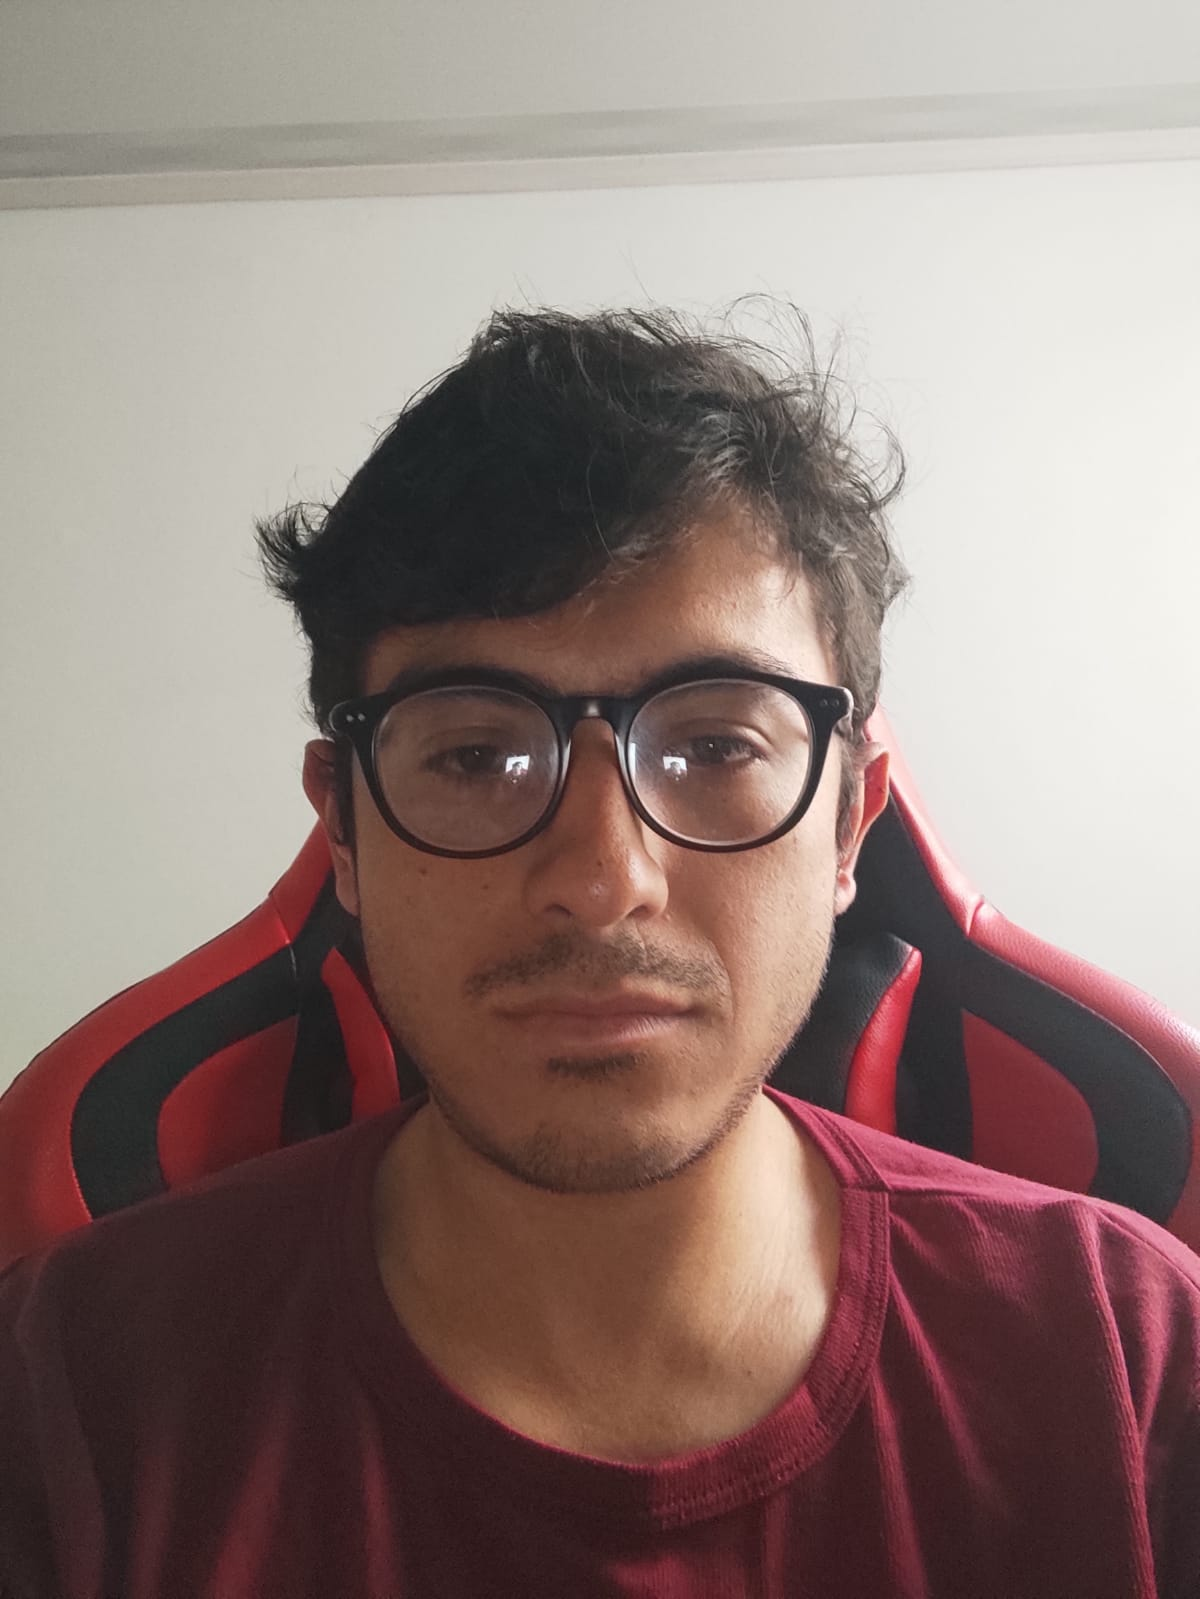
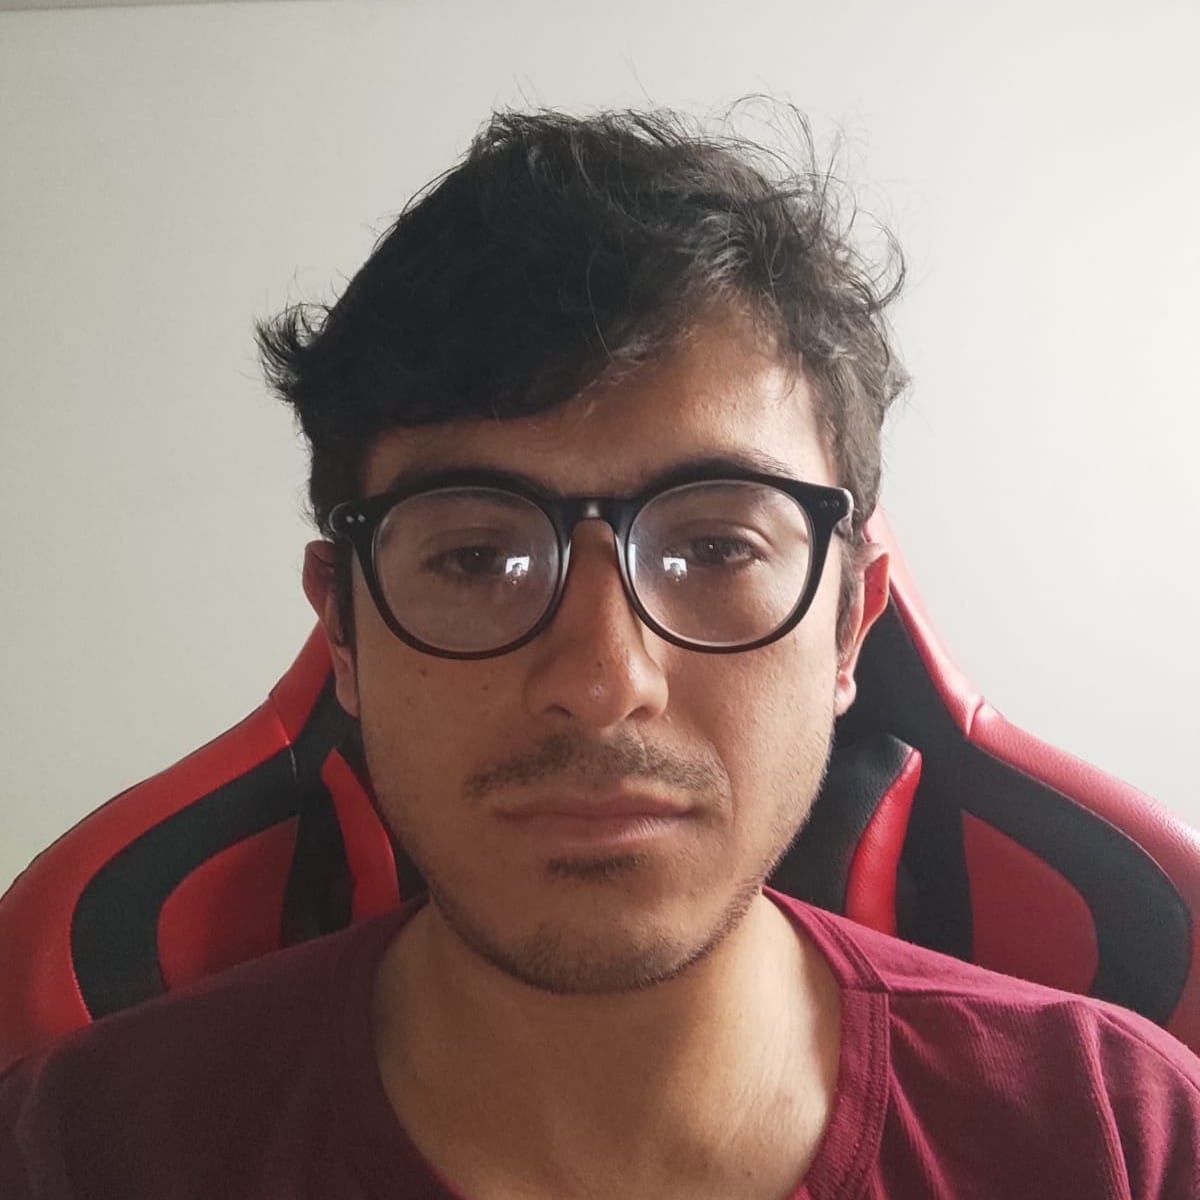
Profile image fixed prox responsive

diff --git a/src/components/photo/photo.css b/src/components/photo/photo.css
@@ -1,17 +1,24 @@
 *{
-    --withPrincipal:50em
-    --heigtPrincipal:50em
+    --withPrincipal:50px
+    --heigtPrincipal:50px
 
 }
 .principalPhoto{
-    display: block;
+    /* background-image: url(https://t3.ftcdn.net/jpg/03/46/83/96/360_F_346839683_6nAPzbhpSkIpb8pmAwufkC7c5eD7wYws.jpg); */
+    /* width: var(--withPrincipal);
+    height: var(--heigtPrincipal); */
+    
     width: 450px;
     height: 450px;
     border-radius: 50%;
+    background-size: cover;
+    margin: 0 auto;
     overflow: hidden;
 }
 .principalPhoto>img{
     display: block;
+    /* width: var(--withPrincipal);
+    height: var(--heigtPrincipal); */
     width: 450px;
     height: 450px;
 }
